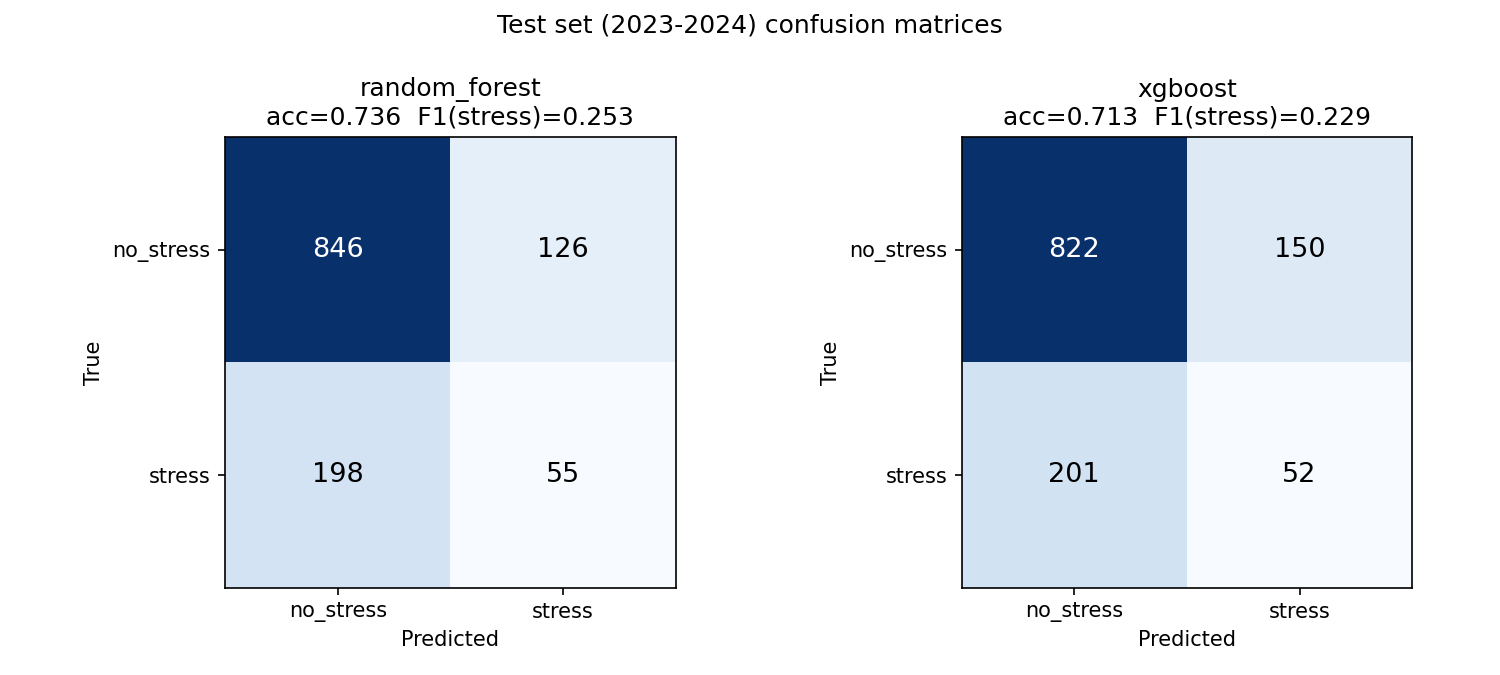
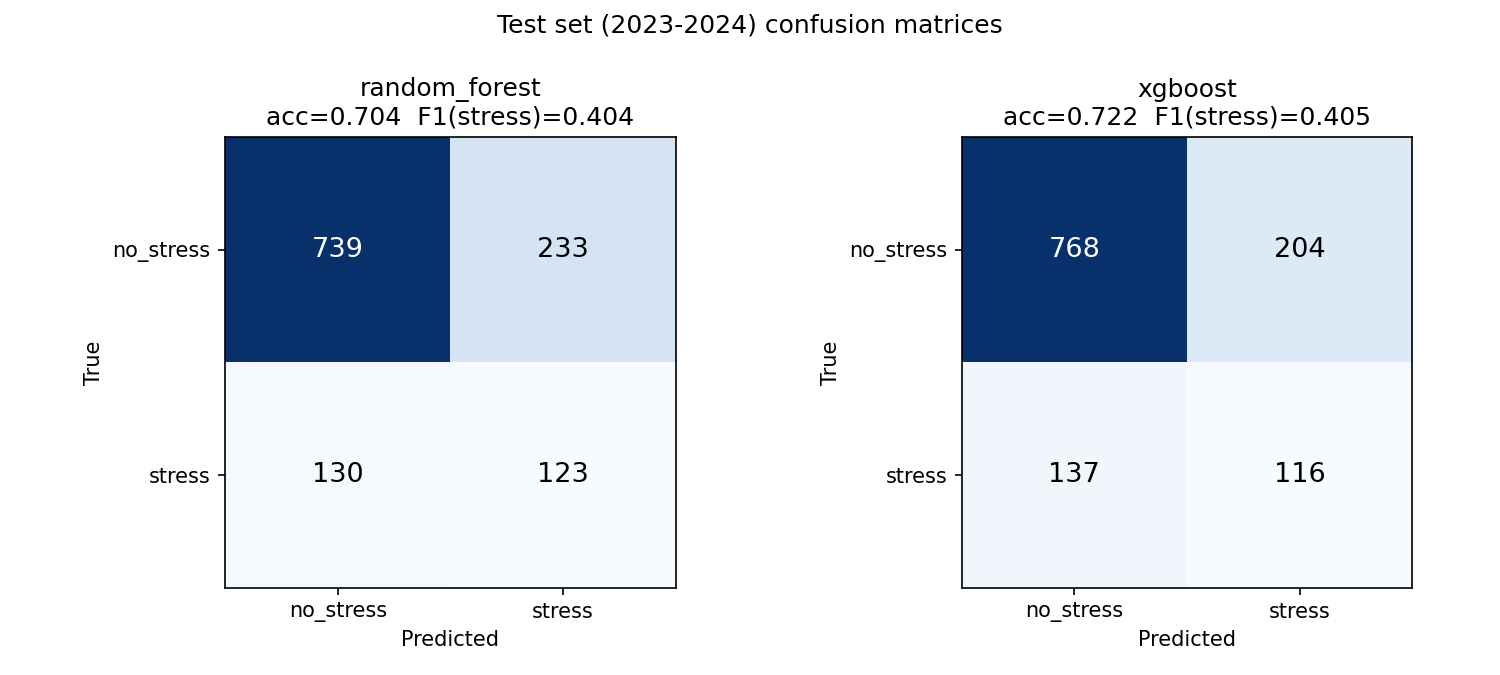
Regenerate evaluation figures and summary for the improved models

diff --git a/src/evaluate.py b/src/evaluate.py
@@ -103,7 +103,8 @@ def main():
             f"- **{name}** — test accuracy: {m['test_accuracy']:.3f}, "
             f"test F1 (stress class): {m['test_f1_stress']:.3f}, "
             f"test F1 (macro): {m['test_f1_macro']:.3f}, "
-            f"5-fold CV F1: {m['cv_f1_stress_mean']:.3f} +/- {m['cv_f1_stress_std']:.3f}"
+            f"best CV F1 (tuning): {m['cv_f1_stress_mean']:.3f}, "
+            f"decision threshold: {m['decision_threshold']:.2f}"
         )
     lines.append("\n## Vegetation-stress incidence by country (all 2019-2024 periods)\n")
     for country, rate in rates.items():

diff --git a/reports/summary.md b/reports/summary.md
@@ -1,9 +1,9 @@
 # Evaluation summary
 
-Best model (by test F1, stress class): **random_forest**
+Best model (by test F1, stress class): **xgboost**
 
-- **random_forest** — test accuracy: 0.736, test F1 (stress class): 0.253, test F1 (macro): 0.546, 5-fold CV F1: 0.320 +/- 0.009
-- **xgboost** — test accuracy: 0.713, test F1 (stress class): 0.229, test F1 (macro): 0.526, 5-fold CV F1: 0.327 +/- 0.030
+- **random_forest** — test accuracy: 0.704, test F1 (stress class): 0.404, test F1 (macro): 0.603, best CV F1 (tuning): 0.437, decision threshold: 0.48
+- **xgboost** — test accuracy: 0.722, test F1 (stress class): 0.405, test F1 (macro): 0.612, best CV F1 (tuning): 0.454, decision threshold: 0.50
 
 ## Vegetation-stress incidence by country (all 2019-2024 periods)
 
@@ -13,6 +13,6 @@ Best model (by test F1, stress class): **random_forest**
 
 ## Per-country test-set performance (best model)
 
-- Netherlands: n=325, stress_rate=18.8%, accuracy=0.738, F1(stress)=0.158
-- Afghanistan: n=507, stress_rate=25.6%, accuracy=0.746, F1(stress)=0.332
-- New Zealand: n=393, stress_rate=15.8%, accuracy=0.720, F1(stress)=0.214
+- Netherlands: n=325, stress_rate=18.8%, accuracy=0.655, F1(stress)=0.188
+- Afghanistan: n=507, stress_rate=25.6%, accuracy=0.813, F1(stress)=0.625
+- New Zealand: n=393, stress_rate=15.8%, accuracy=0.659, F1(stress)=0.264
